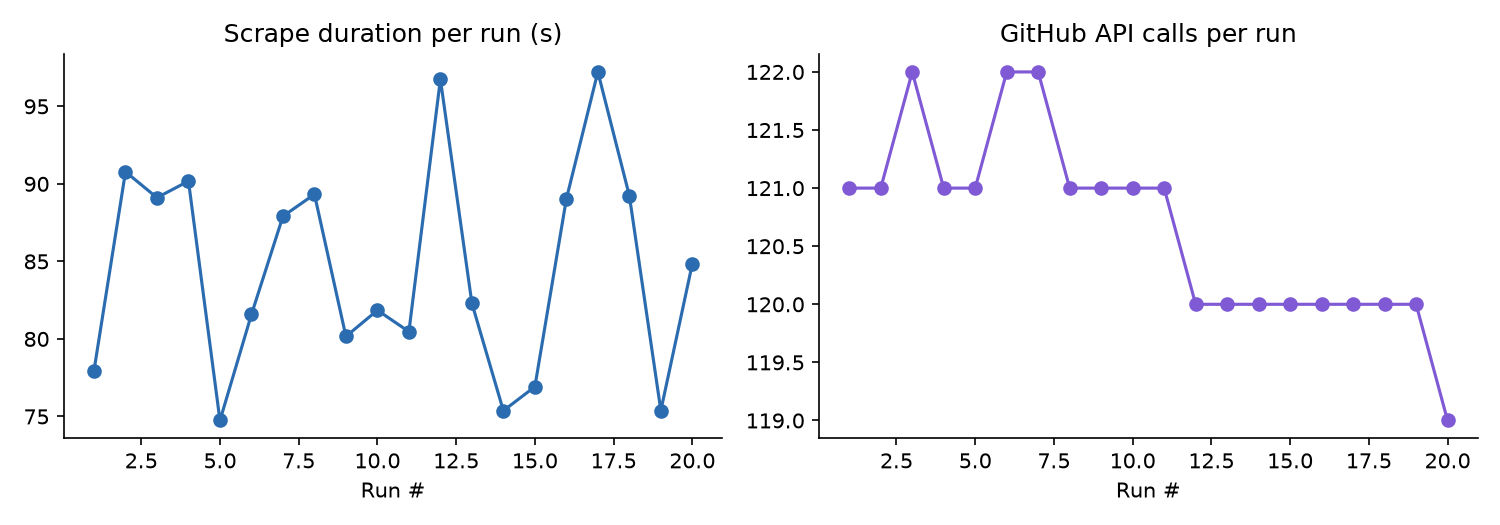
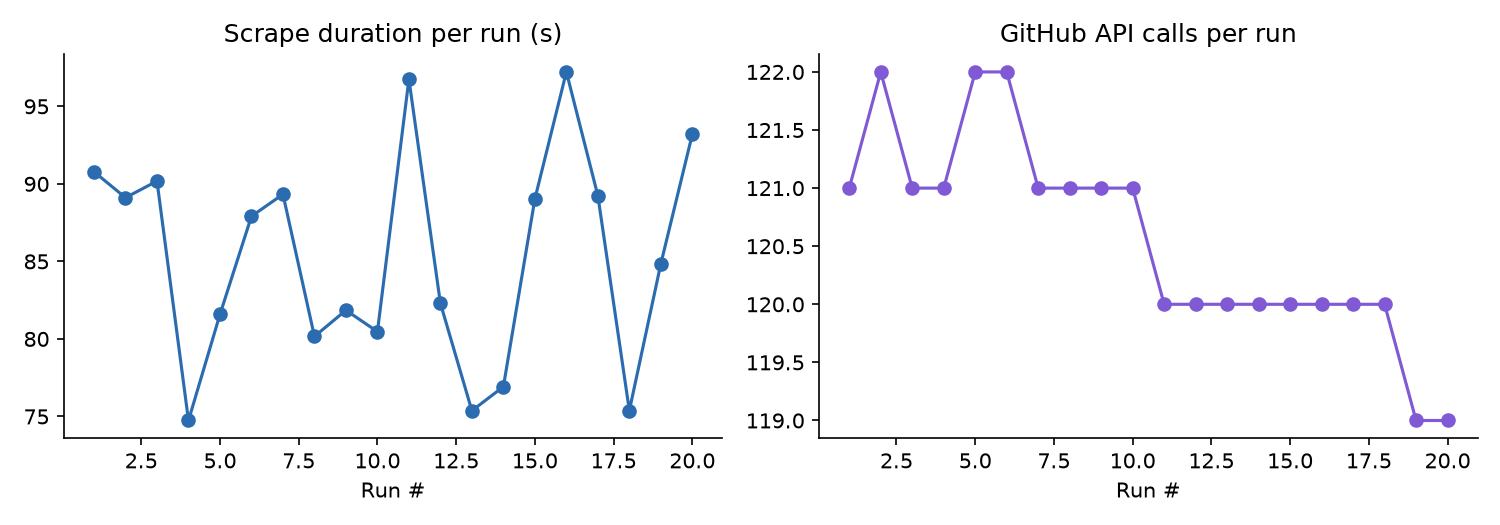
Weekly issue tracker refresh

diff --git a/README.md b/README.md
@@ -81,7 +81,7 @@ See [CONTRIBUTING.md](CONTRIBUTING.md) for the full contributor workflow — inc
 
 <!-- TRACKER:START -->
 
-_Last updated: 2026-10-30 06:02 UTC_
+_Last updated: 2026-10-30 12:40 UTC_
 
 _Tracking **18** upstream repos, **369** relevant open issues._
 
@@ -106,7 +106,7 @@ _Tracking **18** upstream repos, **369** relevant open issues._
 |---|---|---|---|---|
 | ★★★☆☆ | [#1038](https://github.com/GoogleCloudPlatform/opentelemetry-operations-go/issues/1038) Disabling the normalizer breaks unknown metrics | bug, priority: p2 | 0 | 2025-05-20 |
 | ★★★☆☆ | [#705](https://github.com/GoogleCloudPlatform/opentelemetry-operations-go/issues/705) Consider using gorelease to prevent unwanted breaking changes. | enhancement, priority: p3, enhancement accepted | 0 | 2024-07-29 |
-| ★★☆☆☆ | [#912](https://github.com/GoogleCloudPlatform/opentelemetry-operations-go/issues/912) Dependency Dashboard | priority: p3, dependencies | 0 | 2026-10-29 |
+| ★★☆☆☆ | [#912](https://github.com/GoogleCloudPlatform/opentelemetry-operations-go/issues/912) Dependency Dashboard | priority: p3, dependencies | 0 | 2026-10-30 |
 | ★★☆☆☆ | [#1039](https://github.com/GoogleCloudPlatform/opentelemetry-operations-go/issues/1039) Cloud Trace does not display error span status description | bug, priority: p3, Blocked | 4 | 2025-06-02 |
 | ★★☆☆☆ | [#706](https://github.com/GoogleCloudPlatform/opentelemetry-operations-go/issues/706) Consider using dependabot to keep up-to-date with repositories we depend on | enhancement, priority: p2 | 1 | 2024-08-28 |
 | ★☆☆☆☆ | [#1099](https://github.com/GoogleCloudPlatform/opentelemetry-operations-go/issues/1099) Migrate googleclientauth extension to use credentials.DetectDefault | — | 1 | 2026-01-26 |
@@ -124,20 +124,20 @@ _Tracking **18** upstream repos, **369** relevant open issues._
 
 | Score | Issue | Labels | Comments | Updated |
 |---|---|---|---|---|
+| ★★☆☆☆ | [#4113](https://github.com/ansible-collections/community.general/issues/4113) jenkins_job fails with Jenkins 2.319.x due to: Unable to create job, Error in request. Possibly authentication failed [403] | bug, module, needs_info, traceback, plugins, web_infrastructure | 4 | 2026-10-30 |
+| ★★☆☆☆ | [#10598](https://github.com/ansible-collections/community.general/issues/10598) bitwarden lookup plugin: crashes when trying to lookup non-existent field of existent entry | bug, lookup, has_pr, traceback, plugins | 3 | 2026-10-30 |
 | ★★☆☆☆ | [#11843](https://github.com/ansible-collections/community.general/issues/11843) Re-enable callback unit tests for ansible-core >= 2.21 | bug, callback, has_pr, plugins | 7 | 2026-10-29 |
 | ★★☆☆☆ | [#13108](https://github.com/ansible-collections/community.general/issues/13108) sysrc: non-idempotent handling of whitespace | bug, module, has_pr, plugins | 4 | 2026-10-29 |
 | ★★☆☆☆ | [#8901](https://github.com/ansible-collections/community.general/issues/8901) lvg: resizing existing pv doesn't work against Ubuntu 24.04 | bug, module, needs_info, plugins | 3 | 2026-10-29 |
-| ★★☆☆☆ | [#9091](https://github.com/ansible-collections/community.general/issues/9091) nmcli: failed to save connection, 802-11-wireless-security.psk: property is invalid | bug, module, has_pr, plugins | 3 | 2026-10-29 |
 | ★★☆☆☆ | [#10544](https://github.com/ansible-collections/community.general/issues/10544) diy callback uses deprecated Templar.template() argument convert_data | bug, callback, plugins | 3 | 2026-10-27 |
 | ★★☆☆☆ | [#6545](https://github.com/ansible-collections/community.general/issues/6545) lvol: Idempotency issue manageing LV | bug, module, has_pr, needs_info, plugins | 3 | 2026-10-26 |
 | ★★☆☆☆ | [#5494](https://github.com/ansible-collections/community.general/issues/5494) zfs: fails when setting `userquota@` property via `extra_zfs_properties` | bug, module, needs_info, plugins, system | 9 | 2026-10-26 |
-| ★★☆☆☆ | [#5809](https://github.com/ansible-collections/community.general/issues/5809) [nmcli] Trying to create a separated sub-interface is not working | bug, module, needs_info, plugins, net_tools | 5 | 2026-10-25 |
 
 ### [ansible/ansible](https://github.com/ansible/ansible)
 
 | Score | Issue | Labels | Comments | Updated |
 |---|---|---|---|---|
-| ★★☆☆☆ | [#87836](https://github.com/ansible/ansible/issues/87836) `password_hash` overruns `struct crypt_data` with glibc's libcrypt, crashing the worker | needs_triage, bug | 2 | 2026-10-30 |
+| ★★☆☆☆ | [#87836](https://github.com/ansible/ansible/issues/87836) `password_hash` overruns `struct crypt_data` with glibc's libcrypt, crashing the worker | needs_triage, bug | 3 | 2026-10-30 |
 | ★★☆☆☆ | [#87815](https://github.com/ansible/ansible/issues/87815) Deprecate use of passlib for 2.23 | P2, needs_triage, bug, has_pr | 1 | 2026-10-28 |
 | ★★☆☆☆ | [#87820](https://github.com/ansible/ansible/issues/87820) role deduplication not ran with `--skip-tags always` | needs_triage, bug, affects_2.19 | 2 | 2026-10-28 |
 | ★★☆☆☆ | [#87814](https://github.com/ansible/ansible/issues/87814) password_hash: given salt is not used as-is when libxcrypt is available, so hashes change from 2.20 and between controllers | needs_triage, bug, affects_2.21 | 4 | 2026-10-28 |
@@ -281,8 +281,8 @@ _Tracking **18** upstream repos, **369** relevant open issues._
 | ★★★★☆ | [#417](https://github.com/traceloop/openllmetry/issues/417) 🐛 Bug Report: disabled tests for GCP / VertexAI | good first issue, help wanted, testing | 8 | 2026-09-21 |
 | ★★★★☆ | [#2303](https://github.com/traceloop/openllmetry/issues/2303) 🚀 Feature: Support for Azure AI Search | enhancement, good first issue, help wanted | 16 | 2026-05-18 |
 | ★★★★☆ | [#2283](https://github.com/traceloop/openllmetry/issues/2283) 🚀 Feature: Add instruments support for httpx | enhancement, good first issue | 11 | 2025-11-06 |
+| ★★★☆☆ | [#4069](https://github.com/traceloop/openllmetry/issues/4069) 🚀 Feature: Suggestion: Add beginner-friendly example for LLM tracing | good first issue | 17 | 2026-10-30 |
 | ★★★☆☆ | [#1618](https://github.com/traceloop/openllmetry/issues/1618) 🚀 Feature: Support new Pinecone APIs | good first issue, help wanted | 13 | 2026-10-28 |
-| ★★★☆☆ | [#4069](https://github.com/traceloop/openllmetry/issues/4069) 🚀 Feature: Suggestion: Add beginner-friendly example for LLM tracing | good first issue | 16 | 2026-10-14 |
 | ★★★☆☆ | [#2803](https://github.com/traceloop/openllmetry/issues/2803) 🚀 Feature: Install less packages | good first issue, help wanted | 20 | 2026-10-14 |
 | ★★★☆☆ | [#3492](https://github.com/traceloop/openllmetry/issues/3492) 🐛 Bug Report: `opentelemetry-instrumentation-qdrant` is incompatible with `qdrant-client` version `1.16.1` | good first issue, help wanted | 13 | 2026-09-13 |
 | ★★★☆☆ | [#785](https://github.com/traceloop/openllmetry/issues/785) 🚀 Feature: Support runpod.ai | help wanted, new instrumentation | 4 | 2026-08-19 |
@@ -294,7 +294,7 @@ _Tracking **18** upstream repos, **369** relevant open issues._
 
 <!-- METRICS:START -->
 
-_Last run: 2026-10-30 06:01 UTC, took **84.9s**, **119** GitHub API calls, **4881/5000** rate limit remaining._
+_Last run: 2026-10-30 12:38 UTC, took **93.2s**, **119** GitHub API calls, **4881/5000** rate limit remaining._
 
 ![Scrape metrics trend](assets/metrics_trend.png)
 
